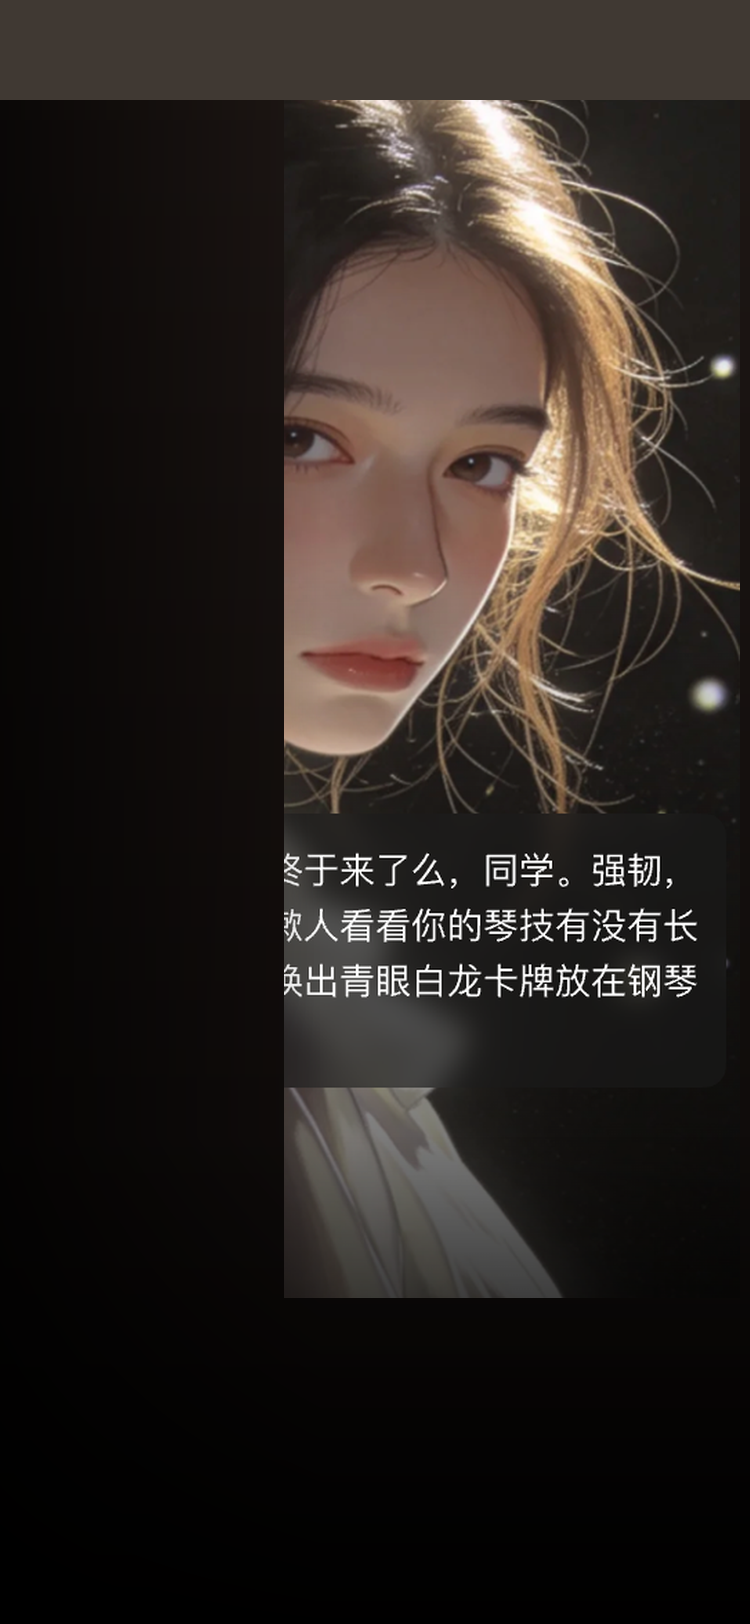
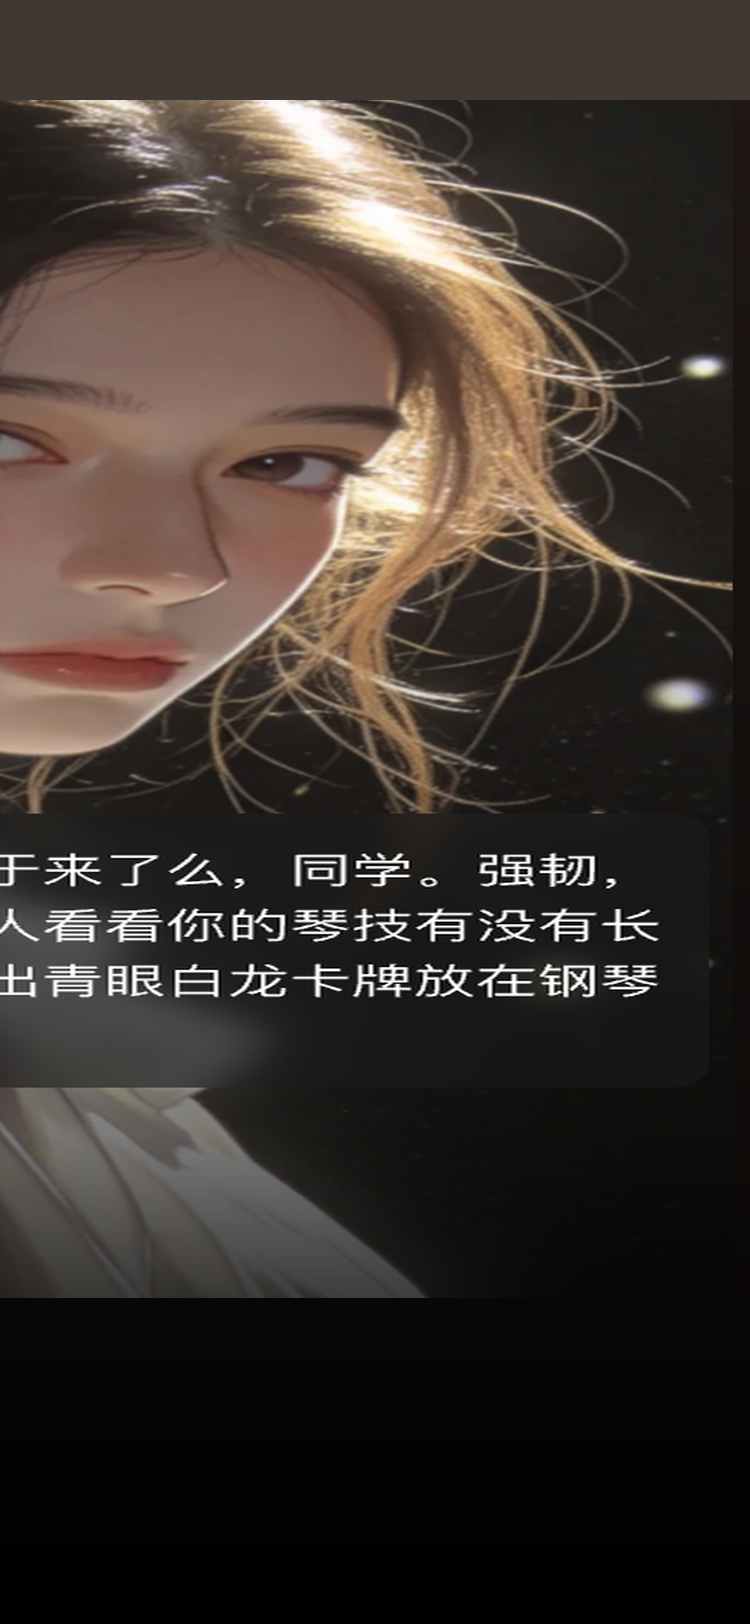
Fix companion background crop and ship StudentReminder boot route for QA.
Crop broken half-black companion standee; keep roster one-tap picker.

diff --git a/src/screens/CompanionScreen.js b/src/screens/CompanionScreen.js
@@ -493,7 +493,7 @@ export default function CompanionScreen({navigation}) {
       {/* 全屏永远用蓝湖默认立绘；自定义头像只放顶部小圆，避免把脸图撑满全屏变形 */}
       <Image
         source={Images.companionPhoto}
-        style={StyleSheet.absoluteFill}
+        style={[StyleSheet.absoluteFill, {backgroundColor: '#0B0618'}]}
         resizeMode="cover"
       />
       {/* 蓝湖纵向渐变遮罩：顶部透出人像，底部保证输入区可读 */}

diff --git a/App.tsx b/App.tsx
@@ -142,6 +142,8 @@ function AppInner(): React.JSX.Element {
           'LessonPlan',
           'Detection',
           'MainTabs',
+          'StudentReminder',
+          'StudentEntry',
         ].includes(boot)
       ) {
         setInitialRoute(boot);
